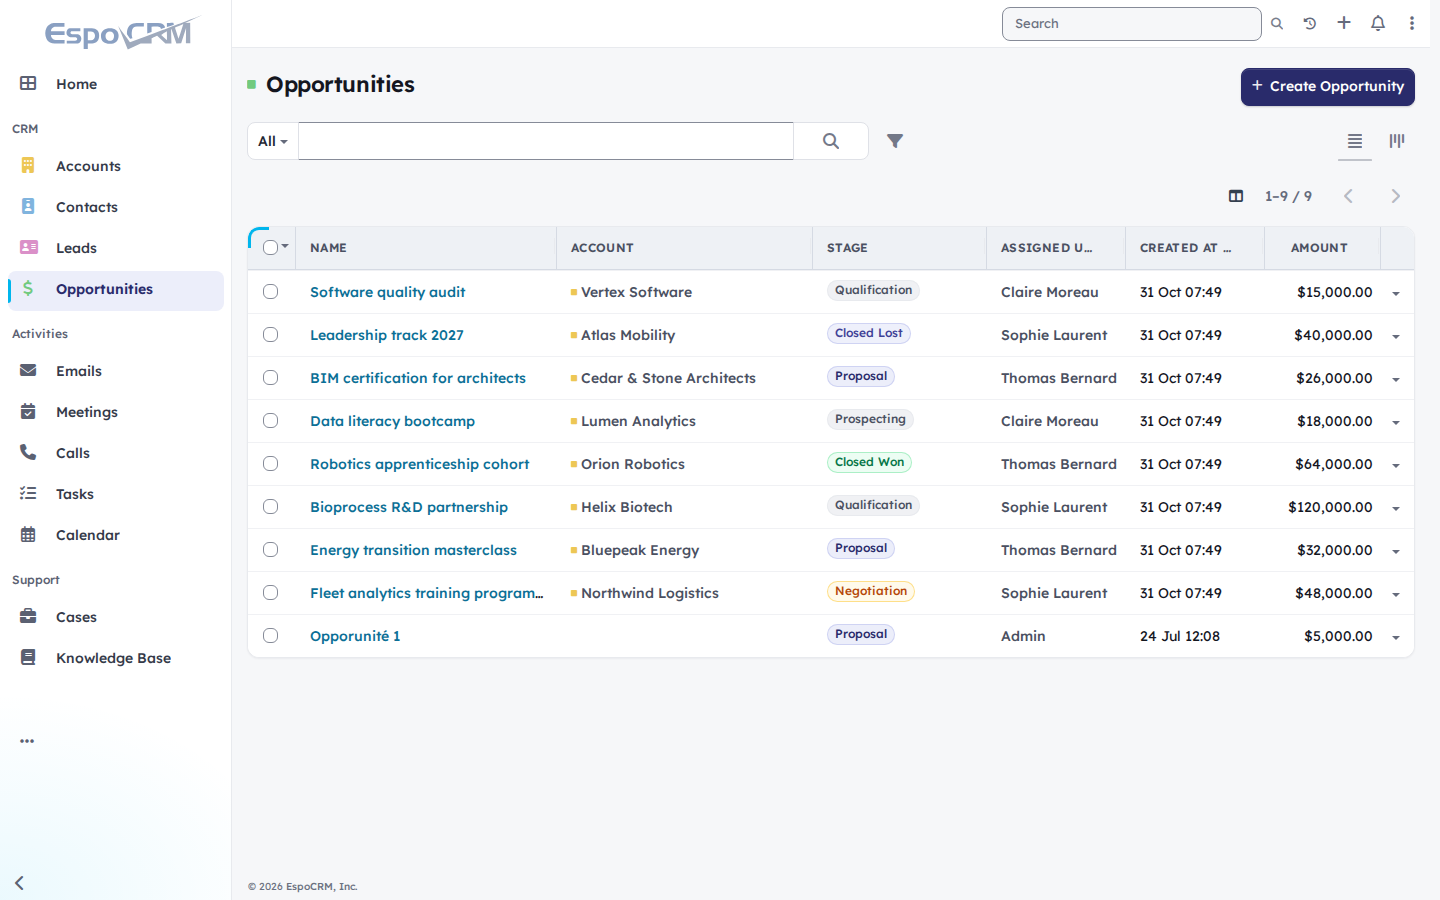
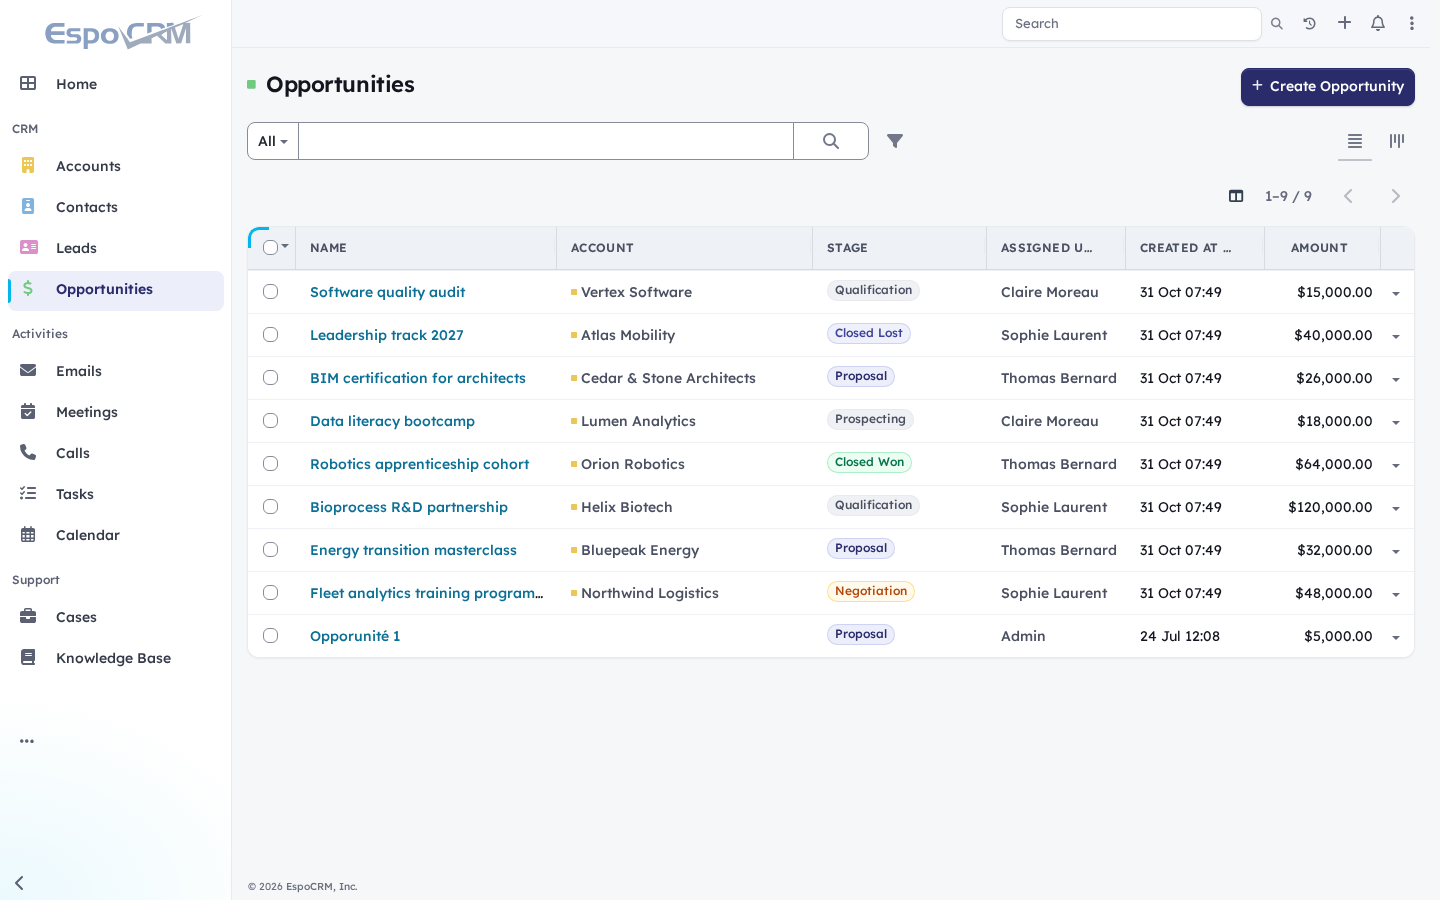
feat: clearer button feedback, one border per field group, previous top bar
- Buttons: a clearer hover (background and shadow), and a press that sinks by
  one pixel instead of scaling, which blurred the text.
- A field and its side buttons share one border: search, dates, links, phone.
- The top bar goes back to its previous look, at the user's request. The top
  menu active tab fix stays.
- README: screenshots updated.

diff --git a/src/files/client/custom/modules/lucid-theme/css/lucid-controls.css b/src/files/client/custom/modules/lucid-theme/css/lucid-controls.css
@@ -10,16 +10,20 @@
                 border-color var(--lucid-fast) ease,
                 color var(--lucid-fast) ease,
                 box-shadow var(--lucid-fast) ease,
-                transform var(--lucid-fast) var(--lucid-ease);
-    transform-origin: center;
+                transform var(--lucid-fast) ease;
 }
 
+/* Press: the button sinks by one pixel, without any scaling that would blur its text */
 .btn:active:not(:disabled):not(.disabled) {
-    transform: scale(0.98);
+    transform: translateY(1px);
 }
 
 .btn-default {
     box-shadow: var(--lucid-shadow-xs);
+}
+
+.btn-default:hover:not(:disabled):not(.disabled) {
+    box-shadow: var(--lucid-shadow-sm);
 }
 
 .btn-default:active,
@@ -32,6 +36,20 @@
 .btn-success,
 .btn-danger,
 .btn-warning {
+    box-shadow: var(--lucid-shadow-primary);
+}
+
+.btn-primary:hover:not(:disabled):not(.disabled),
+.btn-success:hover:not(:disabled):not(.disabled),
+.btn-danger:hover:not(:disabled):not(.disabled),
+.btn-warning:hover:not(:disabled):not(.disabled) {
+    box-shadow: var(--lucid-shadow-primary-hover);
+}
+
+.btn-primary:active:not(:disabled):not(.disabled),
+.btn-success:active:not(:disabled):not(.disabled),
+.btn-danger:active:not(:disabled):not(.disabled),
+.btn-warning:active:not(:disabled):not(.disabled) {
     box-shadow: var(--lucid-shadow-primary);
 }
 
@@ -100,8 +118,19 @@ select.form-control {
 
 /* Grouped fields don't double the shadow */
 .input-group .form-control:not(:focus),
-.input-group-btn > .btn {
+.input-group-btn > .btn,
+.input-group-btn > .btn:hover:not(:disabled):not(.disabled) {
     box-shadow: none;
+}
+
+/* A field and its side buttons read as one control: same border as the field */
+.input-group-btn > .btn:not(.btn-text),
+.input-group-addon {
+    border-color: var(--lucid-border-input);
+}
+
+.input-group-btn > .btn:not(.btn-text):hover:not(:disabled):not(.disabled) {
+    border-color: var(--lucid-n-500);
 }
 
 /* ===== Form labels ===== */

diff --git a/src/files/client/custom/modules/lucid-theme/css/lucid-detail.css b/src/files/client/custom/modules/lucid-theme/css/lucid-detail.css
@@ -34,6 +34,37 @@ body.lucid-band-page {
     padding-bottom: 0;
 }
 
+/* Top bar laid over the band */
+body:has(.lucid-record) #navbar .navbar-right {
+    background: var(--lucid-band-topbar);
+    border-bottom-color: var(--lucid-band-divider);
+}
+
+body:has(.lucid-record) #navbar .navbar-right > li > a {
+    color: var(--lucid-band-muted);
+}
+
+body:has(.lucid-record) #navbar .navbar-right > li > a:hover,
+body:has(.lucid-record) #navbar .navbar-right > li.open > a {
+    background-color: var(--lucid-band-fill-2);
+    color: var(--lucid-band-text);
+}
+
+body:has(.lucid-record) #navbar .navbar-right input.global-search-input {
+    background: var(--lucid-band-fill-2);
+    border-color: var(--lucid-band-line);
+    color: var(--lucid-band-text);
+    box-shadow: none;
+}
+
+body:has(.lucid-record) #navbar .navbar-right input.global-search-input::placeholder {
+    color: var(--lucid-band-muted);
+}
+
+body:has(.lucid-record) #navbar .navbar-right .global-search-container a.global-search-button {
+    color: var(--lucid-band-muted);
+}
+
 #main:has(> .record > .lucid-record) > .page-header .header-title {
     font-size: var(--14px);
     font-weight: 500;
@@ -1072,11 +1103,16 @@ body.lucid-resizing * {
     font: inherit;
     font-weight: 500;
     cursor: pointer;
+    transition: background-color var(--lucid-fast) ease, color var(--lucid-fast) ease, transform var(--lucid-fast) ease;
 }
 
 .lucid-composer-button:hover {
     background: var(--lucid-hover);
     color: var(--lucid-text);
+}
+
+.lucid-composer-button:active {
+    transform: translateY(1px);
 }
 
 .lucid-composer-button[data-kind="note"] {
@@ -1382,6 +1418,10 @@ body.lucid-resizing * {
 @media (prefers-reduced-motion: reduce) {
     .lucid-record .lucid-collapse .fas {
         transition: none;
+    }
+
+    .lucid-composer-button:active {
+        transform: none;
     }
 }
 

diff --git a/src/files/client/custom/modules/lucid-theme/css/lucid-shell.css b/src/files/client/custom/modules/lucid-theme/css/lucid-shell.css
@@ -166,6 +166,8 @@ body[data-navbar="side"] #navbar a.minimizer:hover {
 body[data-navbar="side"] #navbar .navbar-right {
     align-items: center;
     border-bottom: 1px solid var(--lucid-border);
+    -webkit-backdrop-filter: saturate(1.4) blur(10px);
+    backdrop-filter: saturate(1.4) blur(10px);
 }
 
 body[data-navbar="side"] #navbar .navbar-right > li {
@@ -197,11 +199,15 @@ body[data-navbar="side"] #navbar .navbar-right input.global-search-input {
     max-height: var(--34px);
     width: var(--300px);
     padding-left: var(--12px);
-    background-color: var(--lucid-n-50);
-    border: 1px solid var(--lucid-border-input);
+    background-color: var(--lucid-n-0);
+    border: 1px solid var(--lucid-border-strong);
     border-radius: var(--lucid-radius) !important;
-    box-shadow: none;
+    box-shadow: var(--lucid-shadow-xs);
     font-size: var(--13px);
+}
+
+body[data-navbar="side"] #navbar .navbar-right input.global-search-input:hover {
+    border-color: var(--lucid-n-300);
 }
 
 
@@ -267,6 +273,11 @@ body[data-navbar="top"] #navbar .navbar {
 .page-header .header-buttons .btn[data-name="create"]:hover {
     background-color: var(--lucid-brand-hover);
     border-color: var(--lucid-brand-hover);
+    box-shadow: var(--lucid-shadow-primary-hover);
+}
+
+.page-header .header-buttons .btn[data-name="create"]:active {
+    box-shadow: var(--lucid-shadow-primary);
 }
 
 .page-header .header-buttons .btn[data-name="create"] .fas {

diff --git a/src/files/client/custom/modules/lucid-theme/css/lucid-tokens.css b/src/files/client/custom/modules/lucid-theme/css/lucid-tokens.css
@@ -78,6 +78,7 @@
     --lucid-shadow-md: 0 4px 12px -2px rgba(20, 22, 31, 0.08), 0 2px 4px -2px rgba(20, 22, 31, 0.04);
     --lucid-shadow-lg: 0 16px 40px -8px rgba(20, 22, 31, 0.16), 0 4px 10px -4px rgba(20, 22, 31, 0.06);
     --lucid-shadow-primary: inset 0 1px 0 rgba(255, 255, 255, 0.12), 0 1px 2px rgba(20, 22, 31, 0.2);
+    --lucid-shadow-primary-hover: inset 0 1px 0 rgba(255, 255, 255, 0.12), 0 3px 8px -1px rgba(20, 22, 31, 0.35);
 
     /* Focus: keyboard ring and field glow */
     --lucid-focus-outline: 2px solid var(--lucid-brand-ring);
@@ -95,7 +96,9 @@
     --lucid-band-line: rgba(10, 25, 43, 0.16);
     --lucid-band-gradient: linear-gradient(90deg, #eef5f9 0%, #e6f0f7 55%, #dce9f3 100%);
     --lucid-band-glow: radial-gradient(60rem 22rem at 100% 0%, rgba(0, 182, 237, 0.18), transparent 60%);
+    --lucid-band-topbar: rgba(238, 245, 249, 0.85);
     --lucid-band-overlap: var(--24px);
+    --lucid-band-divider: rgba(10, 25, 43, 0.08);
     --lucid-band-fill-1: rgba(10, 25, 43, 0.05);
     --lucid-band-fill-2: rgba(10, 25, 43, 0.08);
     --lucid-band-fill-3: rgba(10, 25, 43, 0.12);

diff --git a/src/files/client/custom/modules/lucid-theme/css/lucid-espo-vars.css b/src/files/client/custom/modules/lucid-theme/css/lucid-espo-vars.css
@@ -104,9 +104,9 @@
     --btn-default-bg: var(--lucid-n-0);
     --btn-default-border: var(--lucid-border-strong);
     --btn-default-color: var(--lucid-n-800);
-    --btn-default-hover-bg: var(--lucid-n-25);
+    --btn-default-hover-bg: var(--lucid-n-100);
     --btn-default-hover-border: var(--lucid-n-300);
-    --btn-default-active-bg: var(--lucid-n-100);
+    --btn-default-active-bg: var(--lucid-n-150);
     --btn-default-active-border: var(--lucid-n-300);
     --btn-text-color: var(--lucid-n-600);
     --btn-active-box-shadow: none;
@@ -158,7 +158,7 @@
     /* Side menu (inverse navbar) and top bar (navbar) */
     --navbar-border-width: var(--1px);
     --navbar-box-shadow: none;
-    --navbar-bg: var(--lucid-surface);
+    --navbar-bg: rgba(246, 247, 249, 0.86);
     --navbar-link-color: var(--lucid-n-500);
     --navbar-link-hover-color: var(--lucid-text);
     --navbar-link-hover-bg: var(--lucid-hover);

diff --git a/src/files/client/custom/modules/lucid-theme/css/lucid-record.css b/src/files/client/custom/modules/lucid-theme/css/lucid-record.css
@@ -47,6 +47,7 @@
 .panel-heading .btn-group > .btn:hover,
 .panel-heading .btn-group.open > .btn {
     background-color: var(--lucid-hover);
+    box-shadow: none;
     color: var(--lucid-text);
 }
 

diff --git a/README.md b/README.md
@@ -70,7 +70,7 @@ All data in the screenshots is fictitious.
 - **Empty fields hidden** behind a "Show N empty fields" link, all shown while editing.
 - **Readability.** One typeface, Lexend, for text and titles; labels as large as values; record
   links coloured so that what is clickable stands out; comfortable form fields.
-- **Light palette.** White sidebar and top bar, ice-blue record band, cards with a cyan corner mark.
+- **Light palette.** White sidebar, ice-blue record band, cards with a cyan corner mark.
   Colours are CSS tokens (`--lucid-band-*`, `--lucid-sidebar-*`, `--lucid-table-*`), easy to retune.
 - **Marked table columns.** Tinted uppercase headers with vertical lines, a cyan tint when hovering a
   column, and a clearer row hover, in lists and in the tables of a record.
